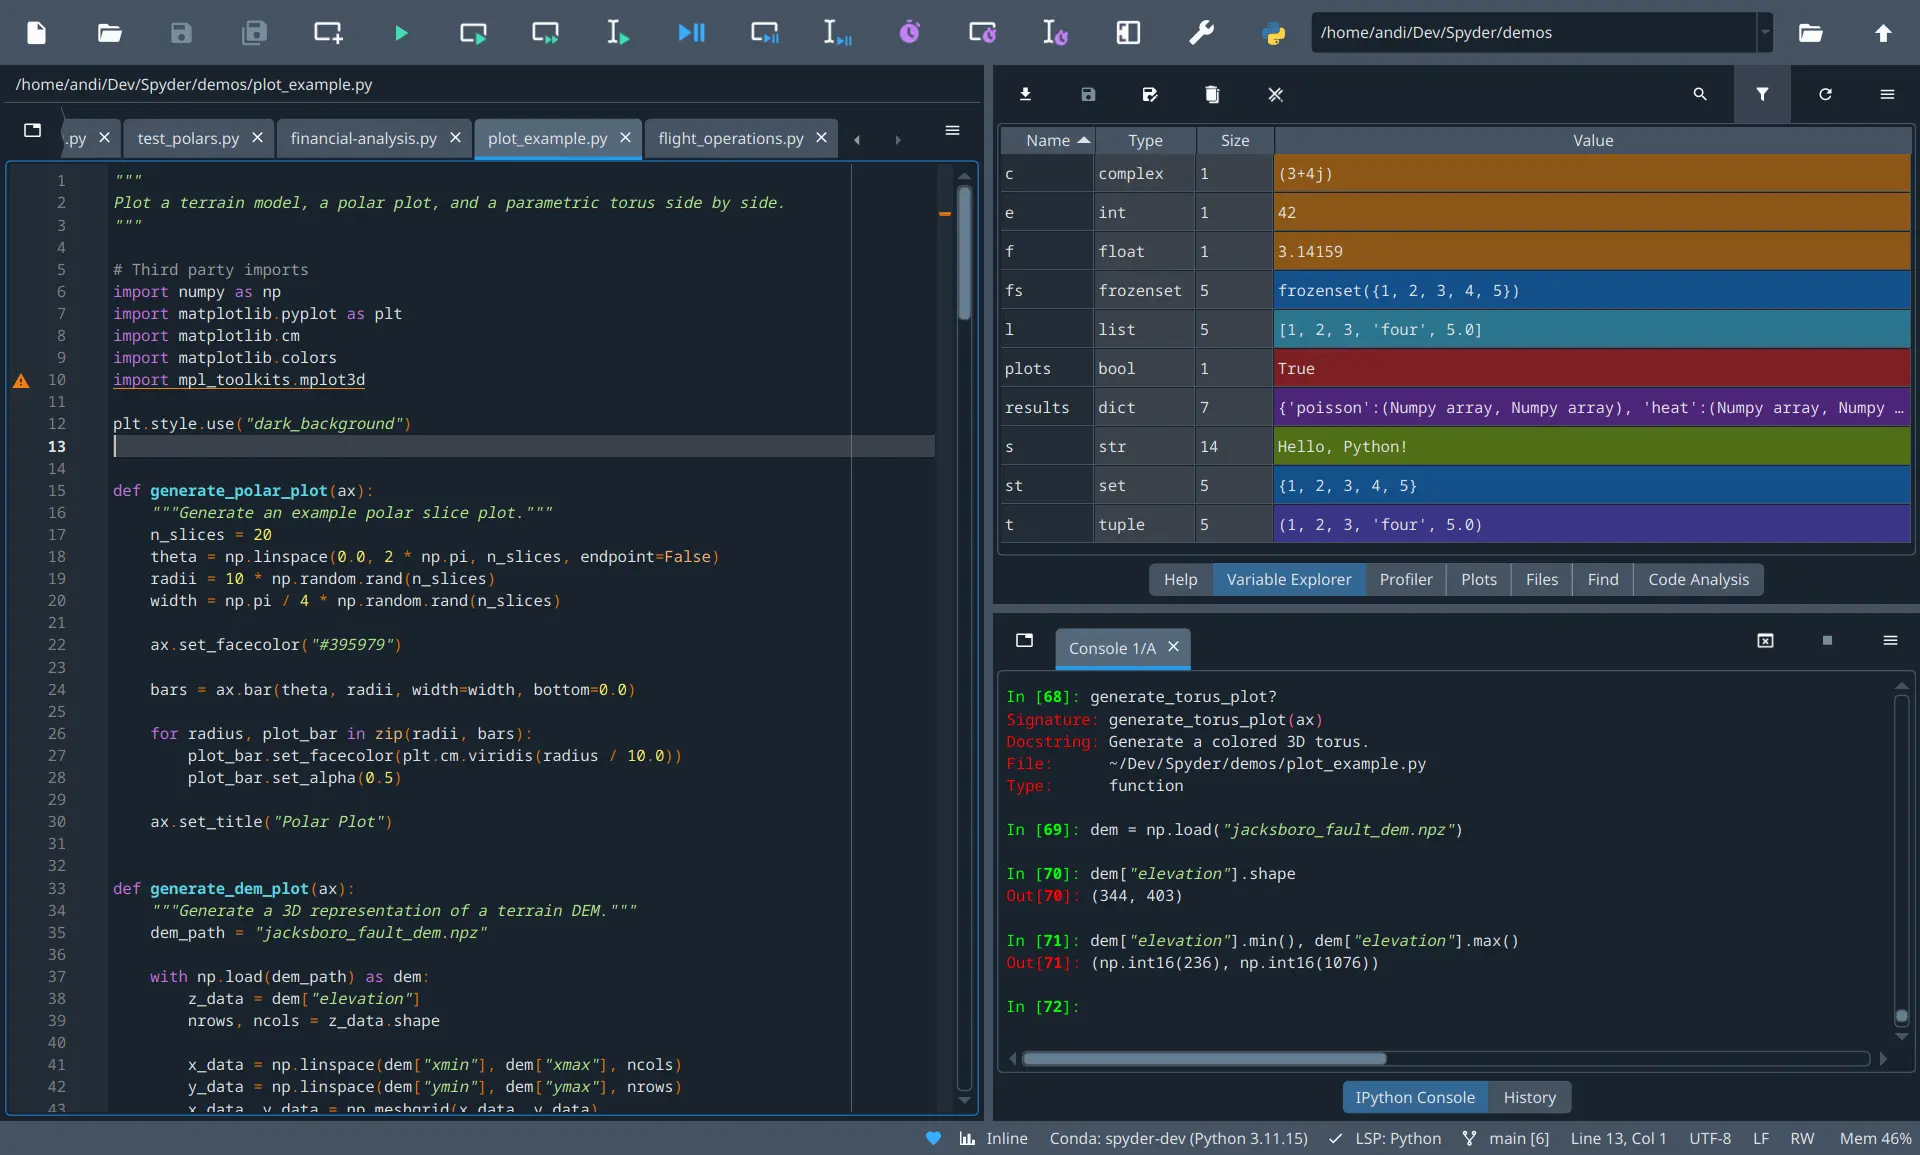
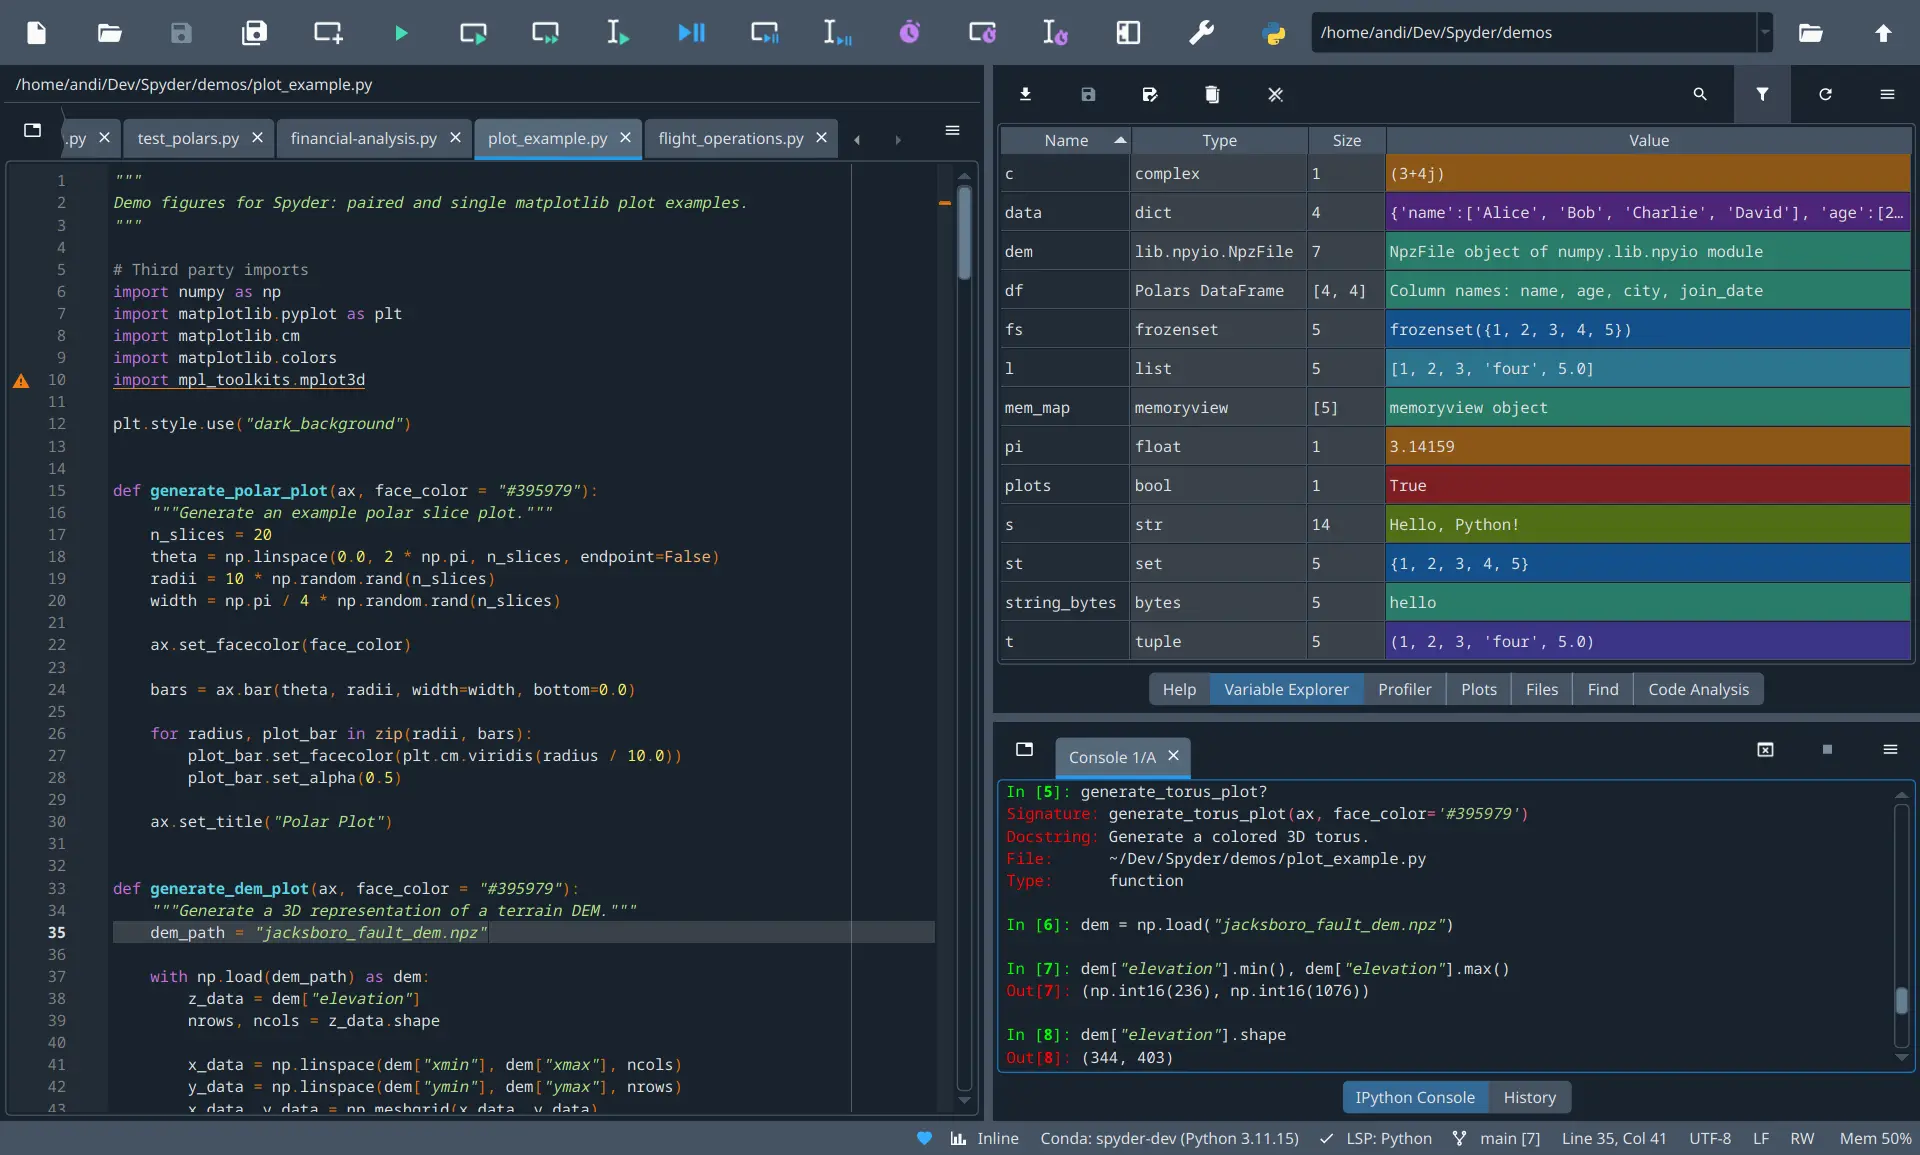
Update variable explorer image to include polar data frame

diff --git a/doc/quickstart.rst b/doc/quickstart.rst
@@ -31,11 +31,11 @@ Finally, you'll get to walk through some of Spyder's key panes and functionality
         <rect id="editor-rect" class="highlight-rect tour-default-layout-main" x="2" y="45" width="650" height="700" />
         <rect id="console-rect" class="highlight-rect tour-default-layout-main" x="660" y="460" width="618" height="290" />
         <rect id="help-rect" class="highlight-rect tour-default-layout-main" x="660" y="46" width="618" height="413" />
-        <rect id="variable-explorer-rect" class="highlight-rect tour-variable-explorer" x="660" y="46" width="618" height="360" />
-        <rect id="plots-rect" class="highlight-rect tour-plots" x="660" y="46" width="618" height="370" />
+        <rect id="variable-explorer-rect" class="highlight-rect tour-variable-explorer" x="660" y="46" width="618" height="431" />
+        <rect id="plots-rect" class="highlight-rect tour-plots" x="660" y="46" width="618" height="371" />
         <rect id="files-rect" class="highlight-rect tour-files" x="660" y="46" width="618" height="413" />
         <rect id="find-rect" class="highlight-rect tour-find" x="660" y="46" width="618" height="413" />
-        <rect id="profiler-rect" class="highlight-rect tour-profiler" x="660" y="46" width="618" height="428" />
+        <rect id="profiler-rect" class="highlight-rect tour-profiler" x="660" y="46" width="618" height="429" />
         <rect id="code-analysis-rect" class="highlight-rect tour-code-analysis" x="660" y="46" width="618" height="360" />
       </svg>
    </div>
